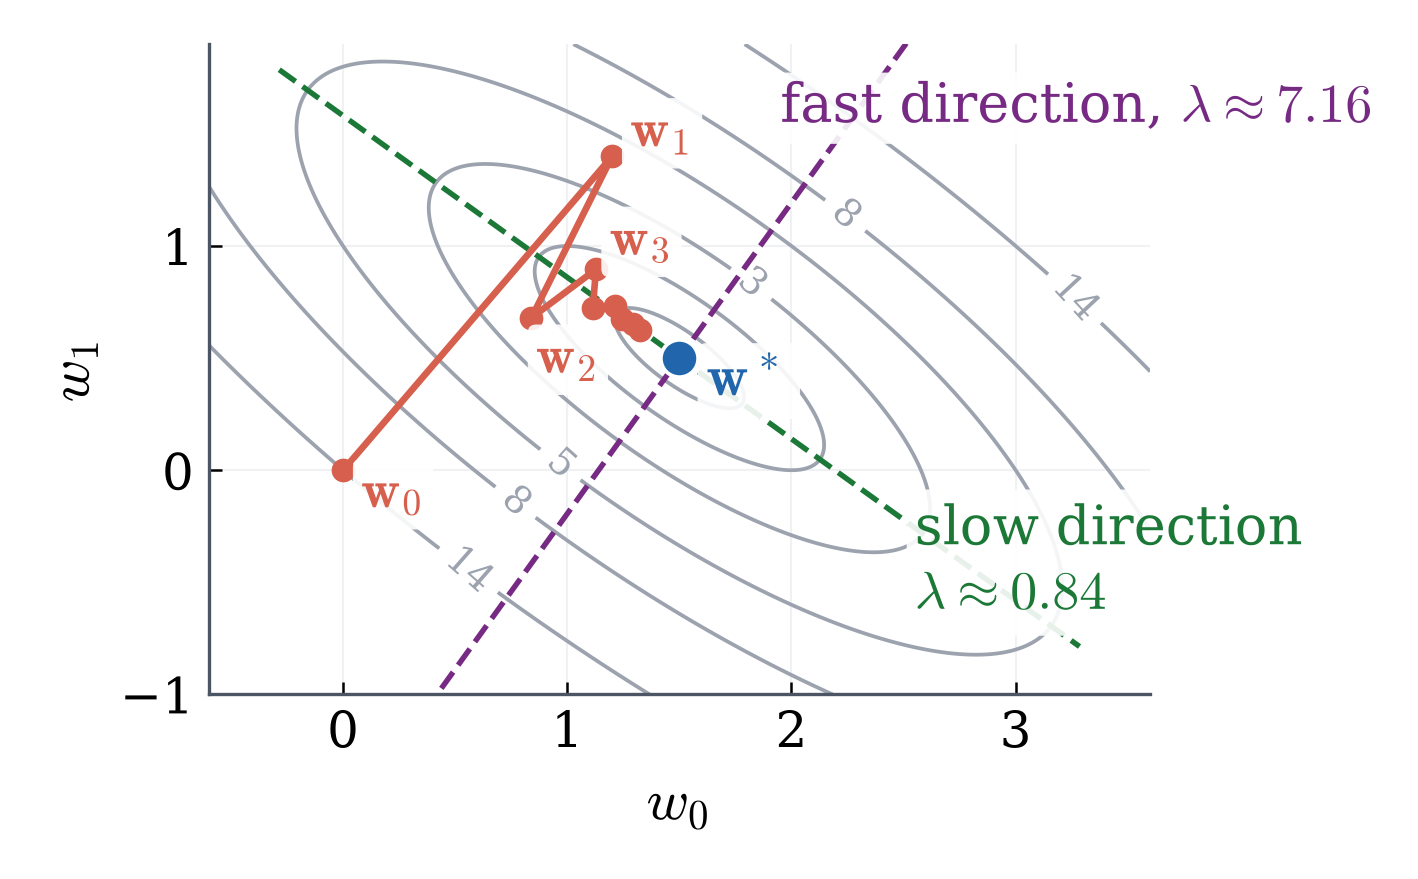
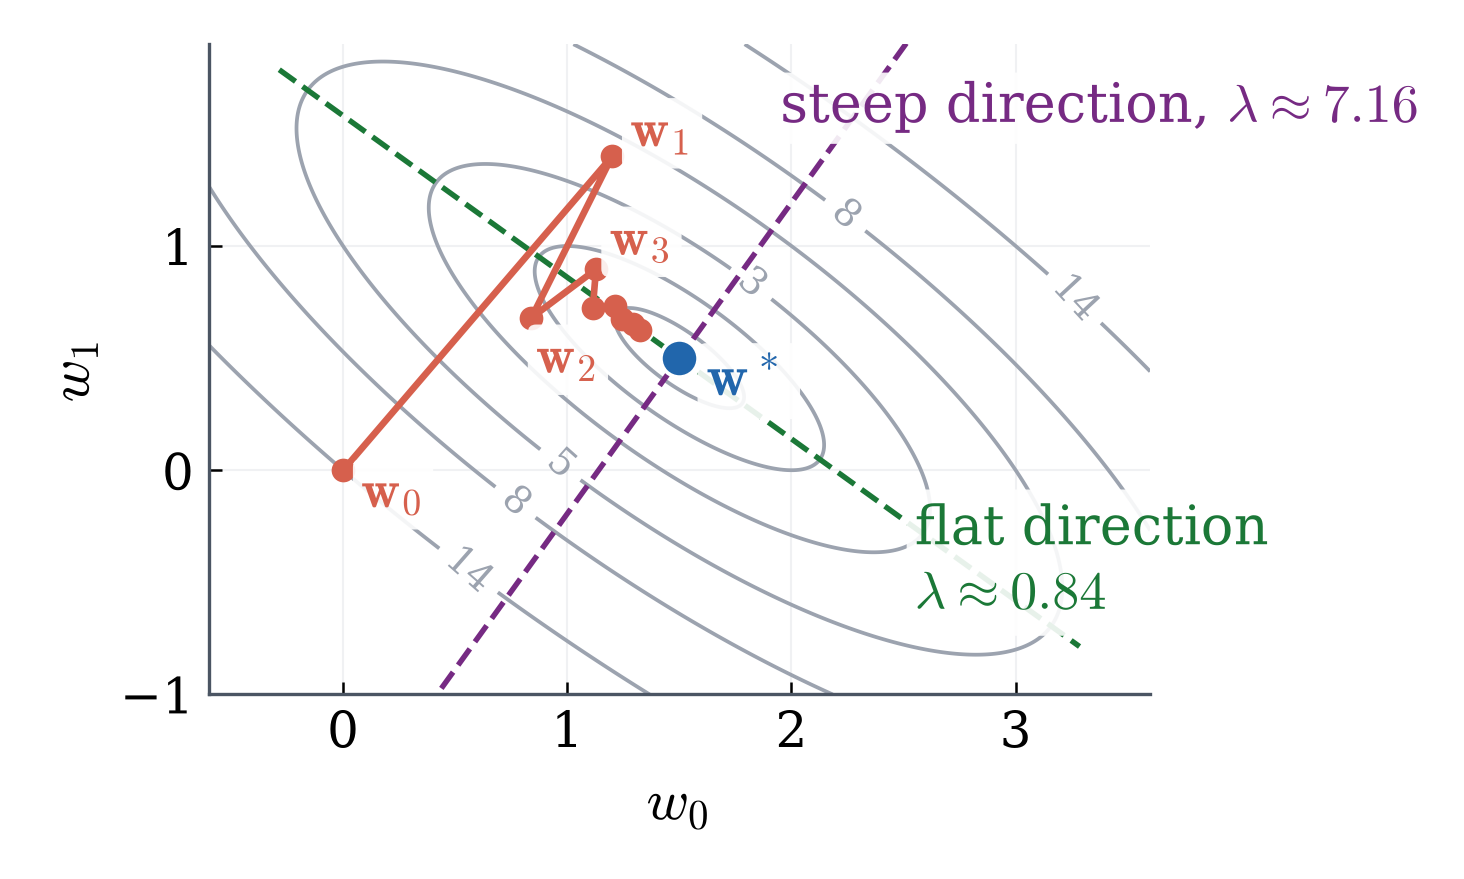
math-for-ds unit05: L19 Part 2 rewritten - picture first, steep vs flat

diff --git a/slides/math-for-ds-unit05.html b/slides/math-for-ds-unit05.html
@@ -1646,121 +1646,119 @@ The trained parameters are \(\mathbf w_k\).
 
 <!-- ─────────────── Part 2: why it is slow ─────────────── -->
 
-<!-- L19-08 -->
+<!-- L19-08: motivation from the picture -->
 <section>
-<h4>Why 22 steps? The path zigzags</h4>
-<img src="../images/unit05/u5-L19-fig02-zigzag.png" alt="Contours of the course SSE, ellipses tilted down to the right. The gradient-descent path with step size 0.1 from (0,0) jumps to w1 = (1.2, 1.4), back to w2 = (0.84, 0.68), to w3 = (1.128, 0.896), then creeps toward w* = (1.5, 0.5). Two dashed lines through w*: the long axis of the ellipses, labelled slow direction, lambda about 0.84, and the short axis, labelled fast direction, lambda about 7.16." style="float:right; max-height:420px; max-width:52%; margin:0 0 0.5em 1em; border-radius:6px;">
-<p>Stopping tells us <strong>when</strong> to quit; it does not explain <strong>why</strong> it took 22 steps. <span style="color:rgb(30,90,160)"><strong>Now: why is the loop slow?</strong></span></p>
+<h4>Why 22 steps? Which landscape is faster for gradient descent?</h4>
+<img src="../images/unit05/u5-L19-fig05-compare.png" alt="Two contour maps side by side. Left: our SSE, long thin tilted ellipses; gradient descent with step size 0.1 from (0,0) jumps across the valley and back, then creeps toward the bottom. Right: a landscape whose contours are circles; one straight step from (0,0) reaches the bottom." style="float:right; max-height:400px; max-width:56%; margin:0 0 0.5em 1em; border-radius:6px;">
 <ul>
-<li class="fragment">Figure, \(\gamma=0.1\): \(\mathbf w_0\to\mathbf w_1\to\mathbf w_2\to\mathbf w_3\) jumps <strong>across</strong> the valley and back.</li>
-<li class="fragment">L11: the fastest way down, \(-(\nabla\mathrm{SSE})^\top\), <strong>does not point at the bottom</strong>.</li>
-<li class="fragment">Then it <strong>creeps along</strong> the long axis of the ellipses.</li>
+<li><strong>Left</strong>, our \(\mathrm{SSE}\): contours are <strong>long, thin ellipses</strong>. With \(\gamma=0.1\) the path jumps across the valley and back (a <strong>zigzag</strong>), then creeps along it. Rule 2 stops it at step \(22\).</li>
+<li class="fragment"><strong>Right</strong>, a landscape whose contours are <strong>circles</strong> (Part 3 gets one from the same data). One step lands on the bottom.</li>
+<li class="fragment">L11: the downhill direction \(-(\nabla\mathrm{SSE})^\top\) is perpendicular to the contour. On a circle it points at the center. On a thin ellipse it points mostly <strong>across</strong> the valley, not along it.</li>
 </ul>
-<div class="key-question fragment">L16, one parameter (\(f(w)=w^2\)): each step multiplies \(w\) by \(1-2\gamma\).<br>The ellipses have a long and a short axis (dashed). <strong>Does one step shrink the gap \(\mathbf w_k-\mathbf w^\ast\) by a different factor along each axis?</strong></div>
-<aside class="notes">"MML Figure 7.3 is the same picture on its own quadratic." "L16: f'(w) = 2w, so w_{k+1} = w_k - 2 gamma w_k; it converges iff |1 - 2 gamma| &lt; 1, i.e. 0 &lt; gamma &lt; 1."</aside>
+<div class="key-question fragment"><span style="color:rgb(30,90,160);"><strong>Why do long, thin contours make gradient descent slow?</strong></span> Start with one parameter.</div>
+<aside class="notes">"jzhong 2026-11-12: start from the picture. Ask the class first: which one converges faster? Then: why?" "MML Figure 7.3 is the same picture on its own quadratic."</aside>
 </section>
 
-<!-- L19-11 -->
+<!-- L19-09: one parameter -->
 <section>
-<h4>Two parameters: one factor per eigenvector of \(X^\top X\) <span class="tier-u">[UNDERSTAND]</span></h4>
-<p>L16: on \(f(w)=w^2\), &ensp;\(w_{k+1}=(1-2\gamma)\,w_k\). &ensp;Now: \(\;\mathrm{SSE}(\mathbf w)=\norm{\mathbf y-X\mathbf w}^2\), &ensp;\(\mathbf w_{k+1}=\mathbf w_k-\gamma\,\big(\nabla\mathrm{SSE}(\mathbf w_k)\big)^\top\).</p>
-<div class="mathbox">
-Let \(X^\top X\mathbf v=\lambda\mathbf v\). If \(\;\mathbf w_k-\mathbf w^\ast=c\,\mathbf v\), then
-\[\mathbf w_{k+1}-\mathbf w^\ast=(1-2\gamma\lambda)\,c\,\mathbf v.\]
-Along an eigenvector, one step multiplies the gap \(\mathbf w_k-\mathbf w^\ast\) by \(1-2\gamma\lambda\).
-</div>
+<h4>One parameter (L16): each step multiplies \(w\) by \(1-2\gamma\)</h4>
+<img src="../images/unit05/u5-L19-fig06-one-parameter.png" alt="Two copies of the parabola f(w) = w squared, starting at w0 = 1. Left, step size 0.1: w1 = 0.8, w2 = 0.64, staying on the right side and creeping toward 0. Right, step size 0.75: w1 = -0.5, w2 = 0.25, jumping to the other side each step." style="float:right; max-height:240px; max-width:48%; margin:0 0 0.5em 1em; border-radius:6px;">
 <ul>
-<li class="fragment">\(f(w)=w^2\) is the case \(\lambda=1\): it is \(\norm{0-1\cdot w}^2\), an \(\mathrm{SSE}\) with \(X^\top X=1\) and \(w^\ast=0\).</li>
-<li class="fragment">\(X^\top X\) is symmetric, so it has an orthogonal eigenbasis \(\mathbf v_1,\mathbf v_2\) (Unit 3).<br>Write \(\mathbf w_k-\mathbf w^\ast=c_1\mathbf v_1+c_2\mathbf v_2\): each part gets <strong>its own factor</strong> \(1-2\gamma\lambda_i\).</li>
+<li>L16: \(f(w)=w^2\), &ensp;\(f'(w)=2w\), &ensp;bottom at \(w^\ast=0\).</li>
+<li class="fragment">One step: \(\;w_{k+1}=w_k-\gamma f'(w_k)\)<br>\(\qquad\qquad\ \ =w_k-2\gamma\,w_k=(1-2\gamma)\,w_k\)</li>
+<li class="fragment">So every step multiplies the distance to the bottom by the same <strong>factor</strong> \(1-2\gamma\).</li>
 </ul>
-</section>
-
-<!-- L19-12 -->
-<section>
-<h4>Why: the gradient is \(2X^\top X\) times the gap \(\mathbf w-\mathbf w^\ast\)</h4>
-<p>Claim: if \(X^\top X\mathbf v=\lambda\mathbf v\) and \(\mathbf w_k-\mathbf w^\ast=c\,\mathbf v\), then \(\mathbf w_{k+1}-\mathbf w^\ast=(1-2\gamma\lambda)\,c\,\mathbf v\).</p>
-<ol>
-<li class="fragment">L12: \(\;\big(\nabla\mathrm{SSE}(\mathbf w)\big)^\top=2\,(X^\top X\mathbf w-X^\top\mathbf y)\)</li>
-<li class="fragment">Normal equation \(X^\top X\mathbf w^\ast=X^\top\mathbf y\): &ensp;\(\big(\nabla\mathrm{SSE}(\mathbf w)\big)^\top=2\,X^\top X\,(\mathbf w-\mathbf w^\ast)\)</li>
-<li class="fragment">One step, minus \(\mathbf w^\ast\): &ensp;\(\mathbf w_{k+1}-\mathbf w^\ast=(\mathbf w_k-\mathbf w^\ast)-2\gamma\,X^\top X\,(\mathbf w_k-\mathbf w^\ast)\)</li>
-<li class="fragment">Put \(\mathbf w_k-\mathbf w^\ast=c\,\mathbf v\), use \(X^\top X\mathbf v=\lambda\mathbf v\): &ensp;\(\mathbf w_{k+1}-\mathbf w^\ast=c\,\mathbf v-2\gamma\lambda\,c\,\mathbf v=(1-2\gamma\lambda)\,c\,\mathbf v\)</li>
-</ol>
-</section>
-
-<!-- L19-13 -->
-<section>
-<h4>Our data: the two eigenvectors of \(X^\top X\)</h4>
-<img src="../images/unit05/u5-L19-fig02-zigzag.png" alt="Contours of the course SSE with the zigzag gradient-descent path; dashed lines through w* along the eigenvectors of X^T X: slow direction with lambda about 0.84 along the long axis, fast direction with lambda about 7.16 along the short axis." style="float:right; max-height:330px; max-width:42%; margin:0 0 0.5em 1em; border-radius:6px;">
-<p>\(X^\top X=\begin{bmatrix}3&amp;3\\3&amp;5\end{bmatrix}\)</p>
-<ul>
-<li class="fragment">Unit 3: \(\det(X^\top X-\lambda I)=\lambda^2-8\lambda+6=0\)</li>
-<li class="fragment">\(\lambda=4\pm\sqrt{10}\): &ensp;\(\approx7.16\) and \(\approx0.84\)</li>
-<li class="fragment">Factors \(1-2\gamma\lambda\) at \(\gamma=0.1\):</li>
-</ul>
-<table class="fragment" style="width:auto; margin:0.3em auto; font-size:0.9em;">
-<tr><th>\(\lambda\)</th><th>eigenvector</th><th>factor</th></tr>
-<tr><td>\(\approx7.16\)</td><td>\(\approx(0.585,\,0.811)^\top\)</td><td>\(\approx-0.43\)</td></tr>
-<tr><td>\(\approx0.84\)</td><td>\(\approx(0.811,\,-0.585)^\top\)</td><td>\(\approx0.83\)</td></tr>
+<table class="fragment" style="width:auto; margin:0.3em auto; font-size:0.92em; clear:both;">
+<tr><th style="padding:0.15em 0.6em;">\(\gamma\)</th><th style="padding:0.15em 0.6em;">factor \(1-2\gamma\)</th><th style="padding:0.15em 0.6em;">what one step does</th></tr>
+<tr><td style="padding:0.15em 0.6em;">\(0.1\)</td><td style="padding:0.15em 0.6em;">\(0.8\)</td><td style="padding:0.15em 0.6em;">same side, \(20\%\) closer: <strong>creeps</strong></td></tr>
+<tr><td style="padding:0.15em 0.6em;">\(0.5\)</td><td style="padding:0.15em 0.6em;">\(0\)</td><td style="padding:0.15em 0.6em;">lands on the bottom</td></tr>
+<tr><td style="padding:0.15em 0.6em;">\(0.75\)</td><td style="padding:0.15em 0.6em;">\(-0.5\)</td><td style="padding:0.15em 0.6em;">jumps to the other side, closer: <strong>zigzags</strong></td></tr>
+<tr><td style="padding:0.15em 0.6em;">\(1.1\)</td><td style="padding:0.15em 0.6em;">\(-1.2\)</td><td style="padding:0.15em 0.6em;">jumps to the other side, farther: <strong>diverges</strong></td></tr>
 </table>
 <ul>
-<li class="fragment">\(-0.43\): flips side each step, shrinks fast: <strong>the zigzag</strong>.</li>
-<li class="fragment">\(0.83\): same side, only \(17\%\) closer per step: <strong>the slow creep</strong>.</li>
+<li class="fragment">A steeper bowl \(f(w)=a\,w^2\): &ensp;\(f'(w)=2a\,w\), factor \(1-2\gamma a\). The steeper the bowl (larger \(a\)), the farther the same \(\gamma\) jumps.</li>
 </ul>
-<aside class="notes">"Eigenvectors: (3, lambda - 3) scaled to length 1. After the fast part dies out, the distance falls like 0.83^k: from step 10 (0.148) to step 20 (0.0236) the ratio is 0.16, and 0.8325^10 = 0.160." "The slow direction raises the baseline and lowers the slope together: models along the valley floor trade one for the other and fit almost equally well."</aside>
+<aside class="notes">"L16 preview Q1 used gamma = 0.4: factor 0.2, w_k = 0.2^k." "Converges iff |1 - 2 gamma a| &lt; 1, i.e. 0 &lt; gamma &lt; 1/a."</aside>
 </section>
 
-<!-- L19-14 -->
+<!-- L19-10: two parameters, steep and flat -->
 <section>
-<h4>How large can \(\gamma\) be? The largest eigenvalue decides <span class="tier-u">[UNDERSTAND]</span></h4>
-<p>Along an eigenvector of \(X^\top X\) with eigenvalue \(\lambda\): factor \(1-2\gamma\lambda\) per step.</p>
+<h4>Our \(\mathrm{SSE}\) has a steep direction and a flat direction</h4>
+<img src="../images/unit05/u5-L19-fig02-zigzag.png" alt="Contours of the course SSE, tilted ellipses, with the zigzag gradient-descent path from (0,0) with step size 0.1. Two dashed lines through w* = (1.5, 0.5): the short axis, labelled steep direction, lambda about 7.16, and the long axis, labelled flat direction, lambda about 0.84." style="float:right; max-height:390px; max-width:44%; margin:0 0 0.5em 1em; border-radius:6px;">
 <ul>
-<li class="fragment">A part shrinks only if \(|1-2\gamma\lambda|&lt;1\), that is \(0&lt;\gamma&lt;1/\lambda\).</li>
-<li class="fragment">Both parts must shrink: \(\;\gamma&lt;1/\lambda_{\max}\).</li>
-<li class="fragment">Our data: \(1/(4+\sqrt{10})\approx0.140\).
+<li>The ellipses have a short axis and a long axis (dashed). Across the valley \(\mathrm{SSE}\) rises fast: <strong>steep</strong>. Along it, slowly: <strong>flat</strong>.</li>
+<li class="fragment">Let \(c_1,c_2\) be the distances from \(\mathbf w^\ast\) along the two axes. Then
+\[\mathrm{SSE}=1.5+7.16\,c_1^2+0.84\,c_2^2\]
+(where \(7.16\) and \(0.84\) come from: two slides on).</li>
+<li class="fragment">Each axis is a one-parameter bowl \(a\,c^2\): one step multiplies \(c\) by \(1-2\gamma a\). <strong>The same \(\gamma\) for both.</strong></li>
+</ul>
+<table class="fragment" style="width:auto; margin:0.3em auto; font-size:0.92em;">
+<tr><th style="padding:0.15em 0.5em;">\(\gamma=0.1\)</th><th style="padding:0.15em 0.5em;">\(a\)</th><th style="padding:0.15em 0.5em;">factor \(1-2\gamma a\)</th><th style="padding:0.15em 0.5em;">what it does</th></tr>
+<tr><td style="padding:0.15em 0.5em;">steep</td><td style="padding:0.15em 0.5em;">\(7.16\)</td><td style="padding:0.15em 0.5em;">\(-0.43\)</td><td style="padding:0.15em 0.5em;">jumps across the valley: <strong>the zigzag</strong></td></tr>
+<tr><td style="padding:0.15em 0.5em;">flat</td><td style="padding:0.15em 0.5em;">\(0.84\)</td><td style="padding:0.15em 0.5em;">\(0.83\)</td><td style="padding:0.15em 0.5em;">same side, \(17\%\) closer: <strong>the creep</strong></td></tr>
+</table>
 <ul>
-<li>\(\gamma=0.1\): converges.</li>
-<li>\(\gamma=0.15\): fast factor \(1-0.3\,(4+\sqrt{10})\approx-1.15\): diverges, as in L16.</li>
+<li class="fragment">The zigzag dies out fast (\(0.43^k\)). The creep is what takes \(22\) steps: \(0.83^{22}\approx0.02\).</li>
+</ul>
+<aside class="notes">"0.83 is 1 - 2(0.1)(0.84) = 0.832; -0.43 is 1 - 2(0.1)(7.16) = -0.432." "From step 10 (distance 0.148) to step 20 (0.0236) the ratio is 0.16 = 0.8325^10: once the zigzag is gone, only the creep is left."</aside>
+</section>
+
+<!-- L19-11: is a bigger gamma better? -->
+<section>
+<h4>Is a bigger \(\gamma\) better? One \(\gamma\) must serve both directions</h4>
+<p>Our \(\mathrm{SSE}\): per step, the steep part is multiplied by \(1-2\gamma(7.16)\), the flat part by \(1-2\gamma(0.84)\).</p>
+<table class="fragment" style="width:auto; margin:0.3em auto; font-size:0.92em;">
+<tr><th style="padding:0.15em 0.6em;">\(\gamma\)</th><th style="padding:0.15em 0.6em;">steep factor</th><th style="padding:0.15em 0.6em;">flat factor</th><th style="padding:0.15em 0.6em;">steps to within \(0.01\) of \(\mathbf w^\ast\)</th></tr>
+<tr><td style="padding:0.15em 0.6em;">\(0.05\)</td><td style="padding:0.15em 0.6em;">\(0.28\)</td><td style="padding:0.15em 0.6em;">\(0.92\)</td><td style="padding:0.15em 0.6em;">\(52\): no zigzag, slow creep</td></tr>
+<tr><td style="padding:0.15em 0.6em;">\(0.10\)</td><td style="padding:0.15em 0.6em;">\(-0.43\)</td><td style="padding:0.15em 0.6em;">\(0.83\)</td><td style="padding:0.15em 0.6em;">\(25\)</td></tr>
+<tr><td style="padding:0.15em 0.6em;">\(0.12\)</td><td style="padding:0.15em 0.6em;">\(-0.72\)</td><td style="padding:0.15em 0.6em;">\(0.80\)</td><td style="padding:0.15em 0.6em;">\(21\)</td></tr>
+<tr><td style="padding:0.15em 0.6em;">\(0.13\)</td><td style="padding:0.15em 0.6em;">\(-0.86\)</td><td style="padding:0.15em 0.6em;">\(0.78\)</td><td style="padding:0.15em 0.6em;">\(33\): the zigzag dies slowly</td></tr>
+<tr><td style="padding:0.15em 0.6em;">\(0.15\)</td><td style="padding:0.15em 0.6em;">\(-1.15\)</td><td style="padding:0.15em 0.6em;">\(0.75\)</td><td style="padding:0.15em 0.6em;">never: diverges</td></tr>
+</table>
+<ul>
+<li class="fragment">A bigger \(\gamma\) helps the flat part (its factor drops) and hurts the steep part (its factor goes toward \(-1\)).</li>
+<li class="fragment">The <strong>steep</strong> direction caps \(\gamma\): it needs \(|1-2\gamma(7.16)|&lt;1\), that is \(\gamma&lt;1/7.16\approx0.14\).</li>
+<li class="fragment">A smaller \(\gamma\) (below \(1/(2\cdot7.16)\approx0.07\)) stops the zigzag, but the flat factor is then above \(0.88\): even slower.</li>
+<li class="fragment">Every \(\gamma\) below the cap: flat factor \(&gt;1-2(0.84)/7.16\approx0.77\). <strong>The flat direction is slow whatever \(\gamma\) we pick.</strong></li>
+</ul>
+<aside class="notes">"The best fixed gamma is 1/(7.16 + 0.84) = 1/8: both factors are then 0.79 in size (21-22 steps). We do not need it." "Step counts: gradient descent from (0,0), stop when ||w_k - w*|| &lt; 0.01."</aside>
+</section>
+
+<!-- L19-12: where 7.16 and 0.84 come from -->
+<section>
+<h4>Where \(7.16\) and \(0.84\) come from: the eigenvalues of \(X^\top X\) <span class="tier-u">[UNDERSTAND]</span></h4>
+<ul>
+<li>L10: \(\;\mathrm{SSE}(\mathbf w)=1.5+\lVert X(\mathbf w-\mathbf w^\ast)\rVert^2\), &ensp;\(X^\top X=\begin{bmatrix}3&amp;3\\3&amp;5\end{bmatrix}\).</li>
+<li class="fragment">Unit 3: \(\det(X^\top X-\lambda I)=\lambda^2-8\lambda+6=0\), so \(\lambda=4\pm\sqrt{10}\approx7.16,\ 0.84\).</li>
+<li class="fragment">Unit eigenvectors: \(\mathbf v_1\approx(0.585,\,0.811)^\top\) for \(7.16\), &ensp;\(\mathbf v_2\approx(0.811,\,-0.585)^\top\) for \(0.84\). Orthogonal, since \(X^\top X\) is symmetric (Unit 3).</li>
+<li class="fragment">Measure from \(\mathbf w^\ast\) along them: \(\;\mathbf w-\mathbf w^\ast=c_1\mathbf v_1+c_2\mathbf v_2\).</li>
+<li class="fragment">\(\lVert X(\mathbf w-\mathbf w^\ast)\rVert^2=(\mathbf w-\mathbf w^\ast)^\top X^\top X(\mathbf w-\mathbf w^\ast)=\lambda_1c_1^2+\lambda_2c_2^2\), &ensp;because \(\mathbf v_1^\top\mathbf v_2=0\) and \(\mathbf v_i^\top\mathbf v_i=1\).</li>
+<li class="fragment">So \(\mathrm{SSE}=1.5+7.16\,c_1^2+0.84\,c_2^2\):
+<ul>
+<li>the <strong>eigenvectors</strong> of \(X^\top X\) are the axes of the ellipses;</li>
+<li>the <strong>eigenvalues</strong> say how steep \(\mathrm{SSE}\) is along each axis.</li>
 </ul></li>
 </ul>
-<div class="key-question fragment"><strong>Then take a smaller \(\gamma\), to stop the zigzag?</strong>
-<ul>
-<li>\(\gamma&lt;1/(2\lambda_{\max})\approx0.070\): fast factor positive, no zigzag.</li>
-<li>But the slow factor \(1-2\gamma\lambda_{\min}\) is then above \(1-\lambda_{\min}/\lambda_{\max}\approx0.88\): <strong>even slower</strong>.</li>
-</ul></div>
+<aside class="notes">"Why gradient descent treats c1 and c2 separately: L12 gives (grad SSE)^T = 2(X^T X w - X^T y) = 2 X^T X (w - w*) by the normal equation. With w - w* = c1 v1 + c2 v2 this is 2(lambda1 c1 v1 + lambda2 c2 v2), so one step sends c_i to (1 - 2 gamma lambda_i) c_i." "Eigenvectors: (3, lambda - 3) scaled to length 1."</aside>
 </section>
 
-<!-- L19-15 -->
+<!-- L19-13: how slow -->
 <section>
 <h4>How slow? The condition number of \(X^\top X\) <span class="tier-u">[UNDERSTAND]</span></h4>
-<div class="key-question">
-<strong>We know:</strong> along an eigenvector of \(X^\top X\), one step multiplies the gap \(\mathbf w_k-\mathbf w^\ast\) by \(1-2\gamma\lambda\), and a safe step needs \(\gamma&lt;1/\lambda_{\max}\).<br>
-<strong>What fails:</strong> the \(\lambda_{\min}\) direction then crawls: its factor is \(1-2\gamma\lambda_{\min}&gt;1-2\lambda_{\min}/\lambda_{\max}\), near \(1\) when \(\lambda_{\min}/\lambda_{\max}\) is small, <strong>whatever \(\gamma\) we pick</strong>.<br>
-<strong>What we need:</strong> one number comparing the direction that caps \(\gamma\) (\(\lambda_{\max}\)) with the direction that crawls (\(\lambda_{\min}\)).
-</div>
+<ul>
+<li>The steep direction caps \(\gamma\) below \(1/\lambda_{\max}\). Then the flat factor is \(1-2\gamma\lambda_{\min}&gt;1-2\,\lambda_{\min}/\lambda_{\max}\).</li>
+<li class="fragment">So the speed is decided by one ratio: how much steeper the steep direction is than the flat one.</li>
+</ul>
 <div class="mathbox fragment">
-<strong>Definition</strong> (MML &sect;7.1.1, Remark, p.230). The <strong>condition number</strong> of the normal-equation matrix \(X^\top X\) is
+<strong>Definition</strong> (MML &sect;7.1.1, Remark, p.230). The <strong>condition number</strong> of \(X^\top X\) is
 \[\kappa(X^\top X)=\frac{\lambda_{\max}(X^\top X)}{\lambda_{\min}(X^\top X)}\ \ge 1.\]
 </div>
 <ul>
-<li class="fragment">MML p.230 uses singular values, \(\sigma_{\max}/\sigma_{\min}\). For the symmetric \(X^\top X\) they are its eigenvalues; for the data matrix \(X\), their square roots, so \(\kappa(X)=\sqrt{\kappa(X^\top X)}\) (MML p.127).</li>
-<li class="fragment">Slow factor \(&gt;1-2/\kappa(X^\top X)\): <strong>a simple bound, not the best possible rate</strong>. Large \(\kappa(X^\top X)\) = slow.</li>
+<li class="fragment">Our data: \(\kappa(X^\top X)=\dfrac{4+\sqrt{10}}{4-\sqrt{10}}\approx8.55\); flat factor \(&gt;1-2/8.55\approx0.77\).</li>
+<li class="fragment">Large \(\kappa\): flat factor near \(1\), slow whatever \(\gamma\). &ensp;\(\kappa=1\): one factor in every direction; the right \(\gamma\) lands in one step (the circles).</li>
+<li class="fragment">Shape: the contour \(\mathrm{SSE}=1.5+d\) is reached at \(c=\sqrt{d/\lambda}\) along each axis, so long axis / short axis \(=\sqrt{\kappa(X^\top X)}\approx2.92\). Large \(\kappa\) = <strong>long, thin</strong> contours (MML p.229).</li>
 </ul>
-<aside class="notes">"The best fixed step gives worst-direction factor (kappa-1)/(kappa+1); we do not need it. The bound 1 - 2/kappa is enough to show: large kappa(X^T X) forces one direction to be slow, whatever gamma."</aside>
-</section>
-
-<!-- L19-16 -->
-<section>
-<h4>What a large \(\kappa(X^\top X)\) looks like: long, thin contours <span class="tier-u">[UNDERSTAND]</span></h4>
-<img src="../images/unit05/u5-L19-fig02-zigzag.png" alt="Contours of the course SSE: ellipses whose long axis is the slow direction (lambda about 0.84) and short axis the fast direction (lambda about 7.16)." style="float:right; max-height:330px; max-width:44%; margin:0 0 0.5em 1em; border-radius:6px;">
-<p>Our data: \(\kappa(X^\top X)=\dfrac{4+\sqrt{10}}{4-\sqrt{10}}\approx8.55\).</p>
-<ul>
-<li class="fragment">L10: \(\;\mathrm{SSE}(\mathbf w)=1.5+\norm{X(\mathbf w-\mathbf w^\ast)}^2\)</li>
-<li class="fragment">Along a unit eigenvector, \(\mathbf w-\mathbf w^\ast=c\,\mathbf v\):<br>\(\norm{X c\mathbf v}^2=c^2\,\mathbf v^\top X^\top X\mathbf v=\lambda c^2\)</li>
-<li class="fragment">Contour \(\mathrm{SSE}=1.5+d\): reached at \(c=\sqrt{d/\lambda}\).<br>Small \(\lambda\): far out. Large \(\lambda\): close in.</li>
-<li class="fragment">Long axis / short axis \(=\sqrt{\kappa(X^\top X)}\approx2.92\).</li>
-<li class="fragment">MML p.229: a <strong>long, thin valley</strong> is a poorly conditioned problem, where gradient descent zigzags.</li>
-</ul>
-<aside class="notes">"Long / short = sqrt(lambda_max/lambda_min) = sqrt(kappa(X^T X)), which is also kappa(X)."</aside>
+<aside class="notes">"MML p.230 uses singular values sigma_max/sigma_min. For the symmetric X^T X they are its eigenvalues; for X, their square roots, so kappa(X) = sqrt(kappa(X^T X)) (MML p.127)." "1 - 2/kappa is a simple bound, not the best possible rate; the best fixed step gives (kappa-1)/(kappa+1)."</aside>
 </section>
 
 <!-- L19-17 -->
@@ -1838,7 +1836,7 @@ Along an eigenvector, one step multiplies the gap \(\mathbf w_k-\mathbf w^\ast\)
 <table style="width:auto; margin:0.4em auto; font-size:0.92em;">
 <tr><th>question</th><th>answer</th></tr>
 <tr class="fragment"><td>When should gradient descent stop?</td><td>At the first step where the gradient is small, the error barely changes, or the step limit is reached.</td></tr>
-<tr class="fragment"><td>Why is it sometimes very slow?</td><td>Along an eigenvector of \(X^\top X\), each step multiplies the gap \(\mathbf w_k-\mathbf w^\ast\) by \(1-2\gamma\lambda\).<br>\(\lambda_{\max}\) caps \(\gamma\); then the \(\lambda_{\min}\) direction crawls when \(\kappa(X^\top X)=\lambda_{\max}/\lambda_{\min}\) is large<br>(a simple bound: slow factor \(&gt;1-2/\kappa(X^\top X)\)).</td></tr>
+<tr class="fragment"><td>Why is it sometimes very slow?</td><td>Long, thin contours: a steep direction and a flat one. Along each, one step multiplies the distance by \(1-2\gamma\lambda\).<br>The steep direction caps \(\gamma\) (\(\gamma&lt;1/\lambda_{\max}\)); then the flat direction creeps when \(\kappa(X^\top X)=\lambda_{\max}/\lambda_{\min}\) is large<br>(flat factor \(&gt;1-2/\kappa(X^\top X)\)).</td></tr>
 <tr class="fragment"><td>What can help when poor conditioning comes from the features&rsquo; scale?</td><td>Standardize the features. With one feature, \(Z^\top Z=3I\) here and \(\kappa(Z^\top Z)=1\).<br>It does not help when two features are nearly the same column (L18).</td></tr>
 </table>
 </section>
@@ -1863,8 +1861,8 @@ Along an eigenvector, one step multiplies the gap \(\mathbf w_k-\mathbf w^\ast\)
 <section>
 <h4>L19 takeaways (2 of 2): conditioning</h4>
 <ul>
-<li class="fragment">Along an eigenvector of \(X^\top X\) (eigenvalue \(\lambda\)), one step multiplies the gap \(\mathbf w_k-\mathbf w^\ast\) by \(1-2\gamma\lambda\); L16&rsquo;s \(w^2\) is \(\lambda=1\). <span class="tier-u">[UNDERSTAND]</span></li>
-<li class="fragment">Safe step: \(\gamma&lt;1/\lambda_{\max}\). Condition number \(\kappa(X^\top X)=\lambda_{\max}/\lambda_{\min}\) (MML p.230); slow factor \(&gt;1-2/\kappa(X^\top X)\), a simple bound. Large \(\kappa(X^\top X)\): long, thin contours and slow gradient descent along the \(\lambda_{\min}\) direction; a step near the limit \(1/\lambda_{\max}\) also zigzags along the \(\lambda_{\max}\) direction. <span class="tier-u">[UNDERSTAND]</span>
+<li class="fragment">One parameter, \(f(w)=a\,w^2\): each step multiplies \(w\) by \(1-2\gamma a\). Our \(\mathrm{SSE}\) is such a bowl along each eigenvector of \(X^\top X\), with \(a=\lambda\): steep (\(7.16\)) across the valley, flat (\(0.84\)) along it. <span class="tier-u">[UNDERSTAND]</span></li>
+<li class="fragment">Safe step: \(\gamma&lt;1/\lambda_{\max}\). Condition number \(\kappa(X^\top X)=\lambda_{\max}/\lambda_{\min}\) (MML p.230); flat factor \(&gt;1-2/\kappa(X^\top X)\). Large \(\kappa(X^\top X)\): long, thin contours; gradient descent creeps along the flat direction and zigzags across the steep one. <span class="tier-u">[UNDERSTAND]</span>
 <ul><li>Our data: \(\lambda=4\pm\sqrt{10}\), \(\;\kappa(X^\top X)\approx8.55\); in minutes, \(\approx15003\).</li></ul></li>
 <li class="fragment">Standardizing a feature, \(z_i=(t_i-\bar t)/s\), removes its unit; with one feature, \(Z^\top Z=3I\) here and \(\kappa(Z^\top Z)=1\). <span class="tier-u">[UNDERSTAND]</span></li>
 </ul>
